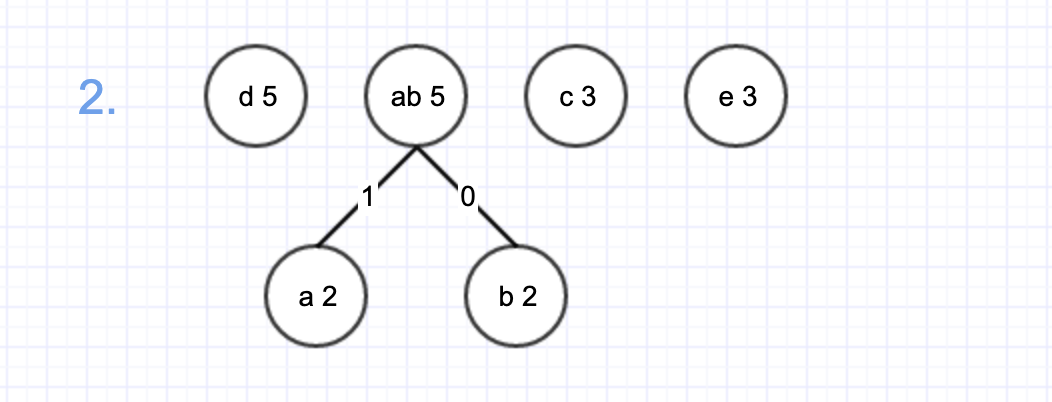
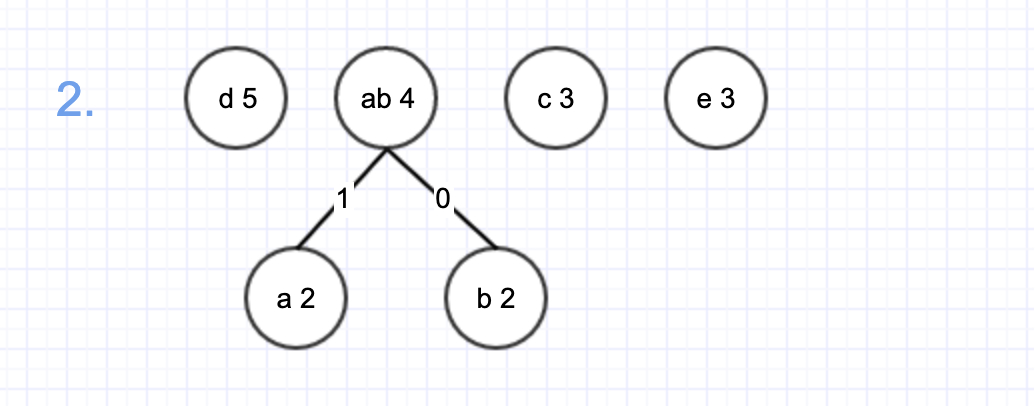
Site updated: 2020-04-18 18:28:00

Changed region(s): [[0.1547, 0.0896, 0.7737, 0.8657], [0.0309, 0.1791, 0.1238, 0.2985]]

diff --git a/huffman/index.html b/huffman/index.html
@@ -92,7 +92,7 @@
 <meta property="og:image" content="https://yqz0203.github.io/images/huffman/step-3.png">
 <meta property="og:image" content="https://yqz0203.github.io/images/huffman/step-4.png">
 <meta property="og:image" content="https://yqz0203.github.io/images/huffman/step-5.png">
-<meta property="og:updated_time" content="2020-04-18T06:57:26.082Z">
+<meta property="og:updated_time" content="2020-04-18T10:27:47.081Z">
 <meta name="twitter:card" content="summary">
 <meta name="twitter:title" content="重温哈夫曼编码">
 <meta name="twitter:description" content="最近研究 http2.0，在看到请求头压缩这一块内容时，说到应用了静态哈夫曼编码对标头进行了压缩。哈夫曼编码大一时就已经学过，时隔多年，除了记忆中还存留着老师那几页模糊的 PPT 的印象，具体的内容早已忘得一干二净。 在继续 http2.0 的学习之前，先重温下 huffman 编码吧。">
@@ -313,7 +313,7 @@
               
                 <span class="post-meta-item-text">更新于&#58;</span>
               
-              <time title="更新于" itemprop="dateModified" datetime="2020-04-18T14:57:26+08:00">
+              <time title="更新于" itemprop="dateModified" datetime="2020-04-18T18:27:47+08:00">
                 2020-04-18
               </time>
             
@@ -393,7 +393,7 @@
 <li>最后结果会生成一个二叉树。从根节点到每个字符所对应节点的路径上遇到的权值拼接后就是这个字符的 huffman 编码。</li>
 </ol>
 <p>上面的文字描述可能有点绕，还是通过例子来的走一遍。</p>
-<p>比如有一个字符串 <code>aabbccccdddddeee</code>。</p>
+<p>比如有一个字符串 <code>aabbcccdddddeee</code>。</p>
 <p>统计可知出现的概率如下</p>
 <ul>
 <li>a - 2/15</li>
@@ -414,14 +414,14 @@
 <p><img src="/images/huffman/step-5.png" alt=""></p>
 <h3 id="转换"><a href="#转换" class="headerlink" title="转换"></a>转换</h3><p>从上面的二叉树中，我们从根节点遍历，可以得到每个字符所在节点的路径。</p>
 <ul>
-<li>a 101</li>
-<li>b 100</li>
-<li>c 111</li>
-<li>d 0</li>
-<li>e 110</li>
+<li>a 001</li>
+<li>b 000</li>
+<li>c 11</li>
+<li>d 01</li>
+<li>e 10</li>
 </ul>
 <p>我们知道一个字符至少占用 1 个字节也就是 8bit，而上面经过 huffman 编码后的二进制长度少于 8bit<sup><a href="#备注">1</a></sup>。如果我们把所有字符用新的二进制表示，则可以减少字符串的长度<sup><a href="#备注">2</a></sup>。</p>
-<p>我们遍历原字符串，通过得到的二进制来存储，得到 10110110010011111111111100000110110110。</p>
+<p>我们遍历原字符串，通过得到的二进制来存储，得到 0010010000001111110101010101101010。</p>
 <h2 id="解码"><a href="#解码" class="headerlink" title="解码"></a>解码</h2><p>huffman 解码的过程很简单。</p>
 <p>遍历得到的二进制，从树的根节点开始遍历，匹配到某个字符的路径后，回到树的根节点继续遍历，直到结束。</p>
 <p>那么这里会有个问题 “遍历二进制时不会走到错误的节点吗？”</p>

diff --git a/index.html b/index.html
@@ -306,7 +306,7 @@
               
                 <span class="post-meta-item-text">更新于&#58;</span>
               
-              <time title="更新于" itemprop="dateModified" datetime="2020-04-18T14:57:26+08:00">
+              <time title="更新于" itemprop="dateModified" datetime="2020-04-18T18:27:47+08:00">
                 2020-04-18
               </time>
             

diff --git a/flow-with-react/index.html b/flow-with-react/index.html
@@ -501,9 +501,9 @@
           
             <a href="/tags/工具/" rel="tag"># 工具</a>
           
-            <a href="/tags/flowtype/" rel="tag"># flowtype</a>
-          
             <a href="/tags/react/" rel="tag"># react</a>
+          
+            <a href="/tags/flowtype/" rel="tag"># flowtype</a>
           
         </div>
       

diff --git a/css/main.css b/css/main.css
@@ -1823,7 +1823,7 @@ pre .javascript .function {
   width: 4px;
   height: 4px;
   border-radius: 50%;
-  background: #984eb0;
+  background: #0db0eb;
 }
 .links-of-blogroll {
   font-size: 13px;
